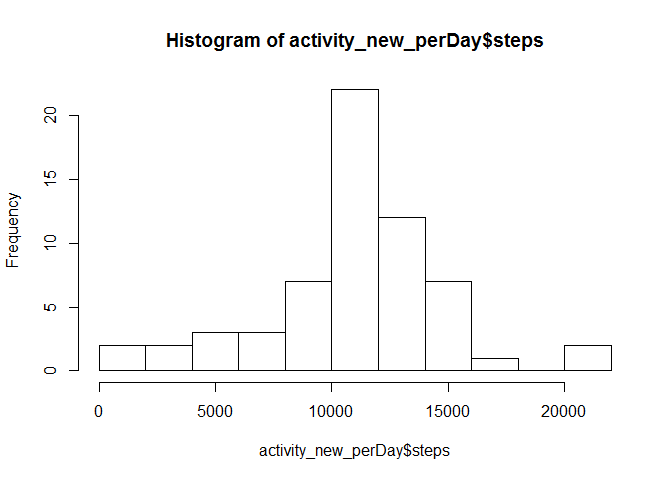
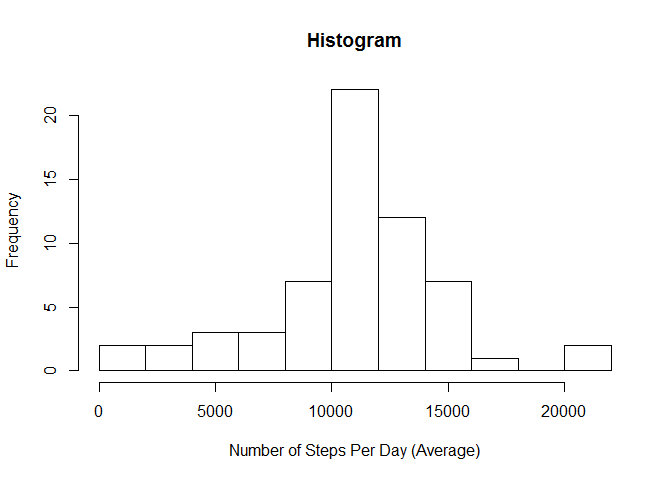
third commit

Changed region(s): [[0.25, 0.0625, 0.8125, 0.125], [0.3438, 0.9062, 0.7188, 0.9688]]

diff --git a/PA1_template.html b/PA1_template.html
@@ -161,8 +161,8 @@ activity_NAomit_perDay</code></pre>
 </div>
 <div id="histogram-of-the-total-number-of-steps-taken-each-day-ignoring-nas" class="section level4">
 <h4>2) Histogram of the total number of steps taken each day (ignoring NAs):</h4>
-<pre class="r"><code>hist(activity_NAomit_perDay$steps, breaks=15)</code></pre>
[1 lines of base64/hex data omitted]
+<pre class="r"><code>hist(activity_NAomit_perDay$steps, breaks=15, xlab=&quot;Number of Steps Per Day&quot;,ylab=&quot;Frequency&quot;, main=&quot;Histogram&quot;)</code></pre>
[1 lines of base64/hex data omitted]
 </div>
 <div id="the-average-mean-and-median-of-steps-per-day-ignoring-nas-is-respectively" class="section level4">
 <h4>3) The average mean and median of steps per day (ignoring NAs) is, respectively:</h4>
@@ -177,8 +177,8 @@ activity_NAomit_perDay</code></pre>
 <div id="time-series-plot-of-the-average-of-steps-per-interval-across-all-days." class="section level4">
 <h4>1) Time series plot of the average of steps per interval across all days.</h4>
 <pre class="r"><code>activity_NAomit_perInterval &lt;- ddply(activity_NAomit,.(interval),summarise,steps=round(mean(steps),2))
-plot(as.numeric(activity_NAomit_perInterval$interval),activity_NAomit_perInterval$steps, type=&quot;l&quot;)</code></pre>
[1 lines of base64/hex data omitted]
+plot(as.numeric(activity_NAomit_perInterval$interval),activity_NAomit_perInterval$steps, type=&quot;l&quot;, xaxt=&quot;n&quot;, xlab=&quot;Interval&quot;,ylab=&quot;Average Steps Per Interval&quot;, main=&quot;Time Series Plot Of The Average Steps Per Interval&quot;)</code></pre>
[1 lines of base64/hex data omitted]
 </div>
 <div id="the-interval-835-scored-the-highest-average-of-number-of-steps-206.17." class="section level4">
 <h4>2) The interval 835 scored the highest average of number of steps: 206.17.</h4>
@@ -243,8 +243,8 @@ activity_new_perInterval &lt;- ddply(activity_new,.(interval),summarise,steps=ro
 </div>
 <div id="after-considering-average-of-steps-for-the-missing-values-the-mean-and-median-is-sliglty-different.-in-the-first-analyis-the-mean-and-median-was-nearly-equal-however-in-this-part-they-are-more-distant-which-also-indicate-a-right-skewed-pattern-given-the-mean-is-higher-than-the-median." class="section level4">
 <h4>4) After considering average of steps for the missing values the mean and median is sliglty different. In the first analyis the mean and median was nearly equal, however in this part they are more distant which also indicate a right skewed pattern (given the mean is higher than the median).</h4>
-<pre class="r"><code>hist(activity_new_perDay$steps, breaks=15)</code></pre>
[1 lines of base64/hex data omitted]
+<pre class="r"><code>hist(activity_new_perDay$steps, breaks=15, , xlab=&quot;Number of Steps Per Day (Average)&quot;,ylab=&quot;Frequency&quot;, main=&quot;Histogram&quot;)</code></pre>
[1 lines of base64/hex data omitted]
 <pre class="r"><code>mean(activity_new_perDay$steps)</code></pre>
 <pre><code>## [1] 10762.03</code></pre>
 <pre class="r"><code>median(activity_new_perDay$steps)</code></pre>

diff --git a/PA1_template.md b/PA1_template.md
@@ -135,7 +135,7 @@ activity_NAomit_perDay
 #### 2) Histogram of the total number of steps taken each day (ignoring NAs):
 
 ```r
-hist(activity_NAomit_perDay$steps, breaks=15)
+hist(activity_NAomit_perDay$steps, breaks=15, xlab="Number of Steps Per Day",ylab="Frequency", main="Histogram")
 ```
 
 ![](PA1_template_files/figure-html/unnamed-chunk-4-1.png) 
@@ -167,7 +167,7 @@ median(activity_NAomit_perDay$steps)
 
 ```r
 activity_NAomit_perInterval <- ddply(activity_NAomit,.(interval),summarise,steps=round(mean(steps),2))
-plot(as.numeric(activity_NAomit_perInterval$interval),activity_NAomit_perInterval$steps, type="l")
+plot(as.numeric(activity_NAomit_perInterval$interval),activity_NAomit_perInterval$steps, type="l", xaxt="n", xlab="Interval",ylab="Average Steps Per Interval", main="Time Series Plot Of The Average Steps Per Interval")
 ```
 
 ![](PA1_template_files/figure-html/unnamed-chunk-7-1.png) 
@@ -262,7 +262,7 @@ activity_new_perInterval <- ddply(activity_new,.(interval),summarise,steps=round
 
 
 ```r
-hist(activity_new_perDay$steps, breaks=15)
+hist(activity_new_perDay$steps, breaks=15, , xlab="Number of Steps Per Day (Average)",ylab="Frequency", main="Histogram")
 ```
 
 ![](PA1_template_files/figure-html/unnamed-chunk-11-1.png) 
